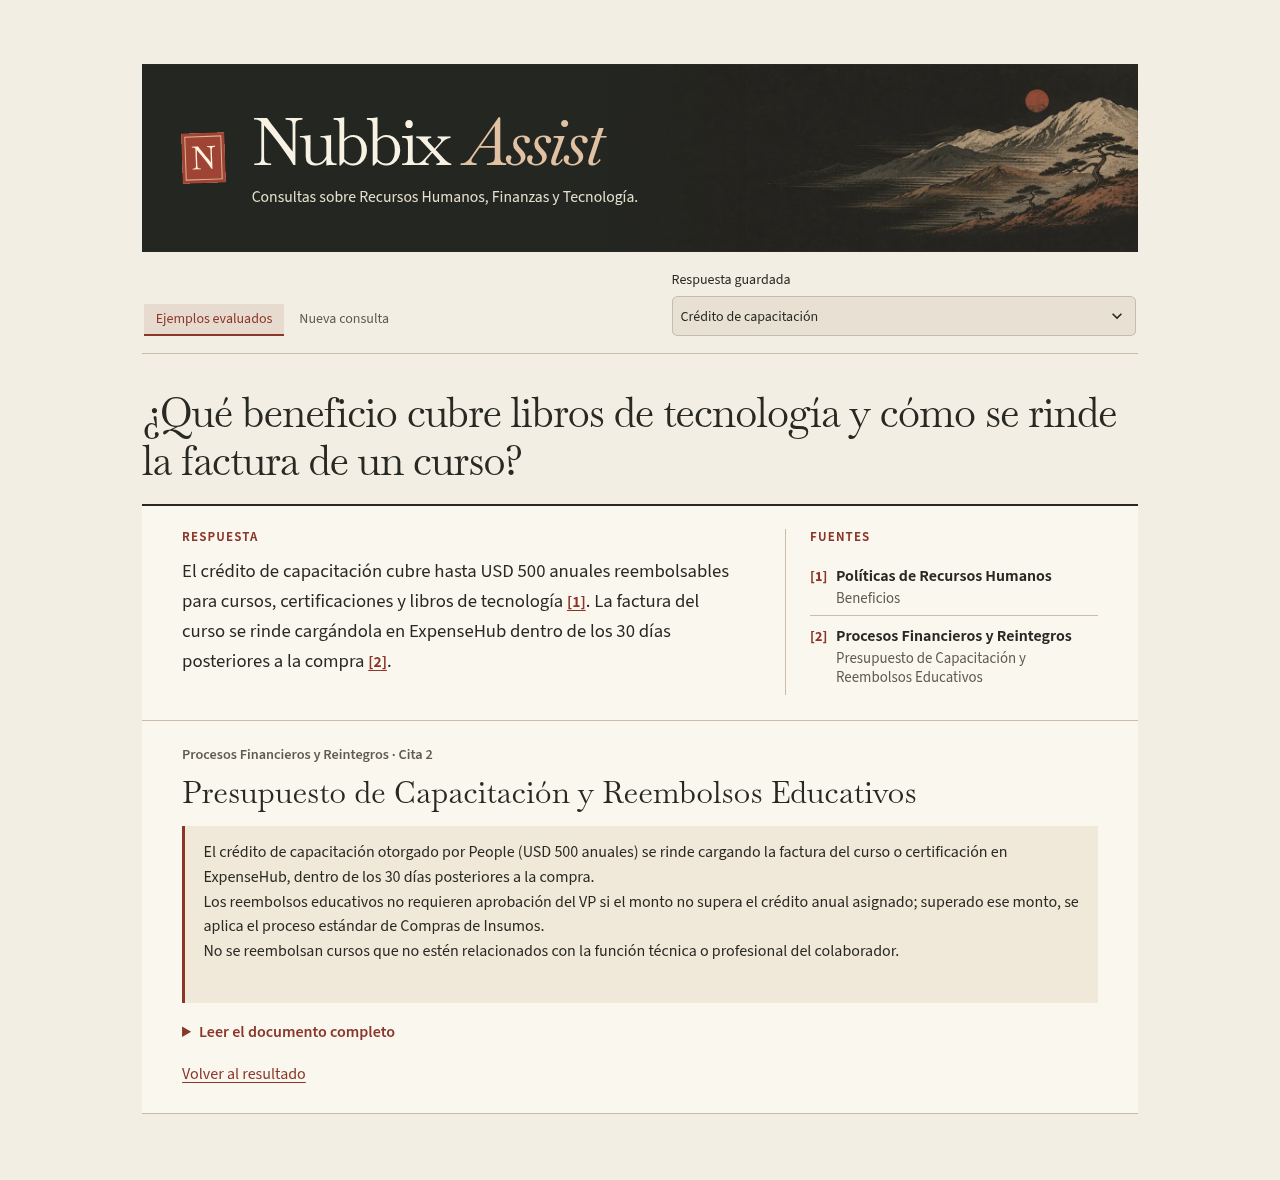
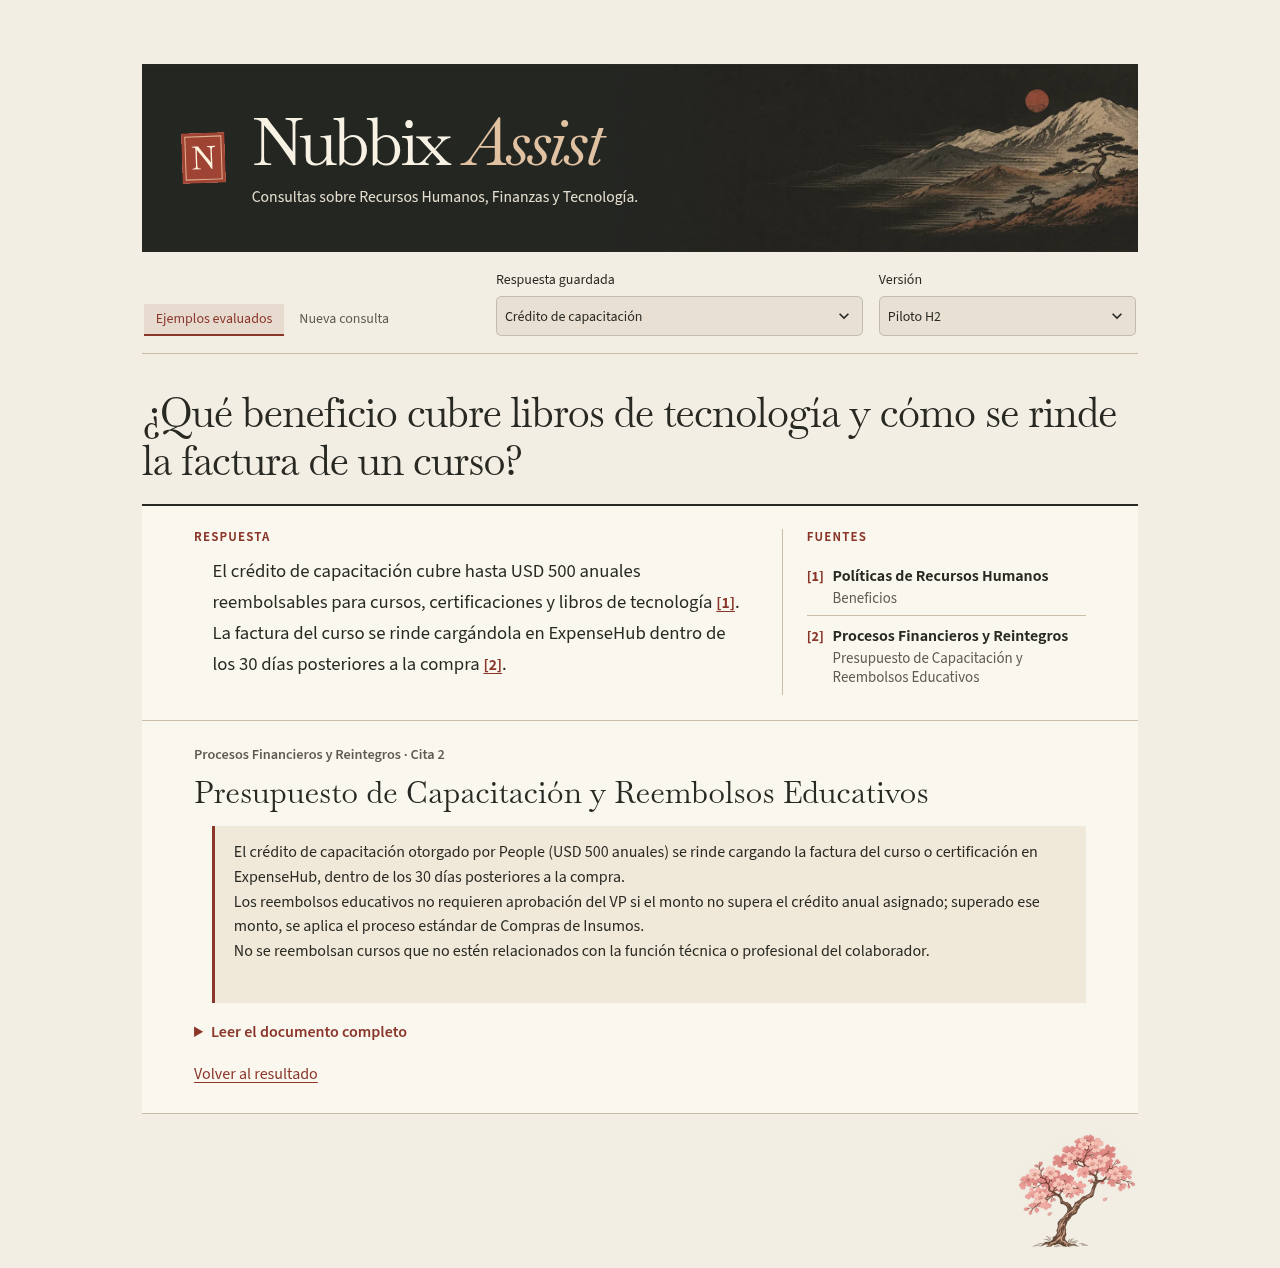
Ampliar la galería a todas las respuestas evaluadas y ajustar la lectura

diff --git a/ui/reader.css b/ui/reader.css
@@ -26,8 +26,11 @@
   --archive-radius: 2px;
 }
 [data-testid="stMainBlockContainer"] {
+  --cherry-size: clamp(5.2rem, 10vw, 7.6rem);
   max-width: 68rem;
-  padding: clamp(2.5rem, 5vw, 4rem) clamp(1.1rem, 3.6vw, 3rem) 5rem;
+  padding: clamp(2.5rem, 5vw, 4rem) clamp(1.1rem, 3.6vw, 3rem) calc(var(--cherry-size) + 2rem);
+  background: url("./app/static/cerezo.webp") right clamp(1.1rem, 3.6vw, 3rem) bottom 1rem /
+              var(--cherry-size) var(--cherry-size) no-repeat;
 }
 .archive-cover {
   position: relative;
@@ -126,6 +129,8 @@
   outline-offset: 3px;
 }
 .nubbix-reader {
+  --reader-gutter: clamp(1.25rem, 4.5vw, 3.25rem);
+  --reader-indent: clamp(.7rem, 1.6vw, 1.15rem);
   border-block: 2px solid var(--archive-ink);
   border-bottom: 1px solid var(--archive-rule);
   background: var(--archive-page);
@@ -136,7 +141,7 @@
   display: grid;
   grid-template-columns: minmax(0, 1.8fr) minmax(0, 1fr);
   gap: var(--archive-margin);
-  padding: 1.45rem var(--archive-margin) 1.6rem;
+  padding: 1.45rem var(--reader-gutter) 1.6rem;
 }
 .reader-copy:only-child { grid-column: 1 / -1; }
 .nubbix-reader .reader-label {
@@ -153,8 +158,9 @@
 .nubbix-reader .answer {
   max-width: 64ch;
   margin: 0;
+  margin-inline-start: var(--reader-indent);
   font-size: 1.17rem;
-  line-height: 1.6;
+  line-height: 1.65;
   white-space: pre-line;
   overflow-wrap: anywhere;
 }
@@ -180,7 +186,7 @@
 .source-link:hover .source-document, .source-link:focus-visible .source-document { text-decoration: underline; }
 .nubbix-reader .source-view {
   display: none;
-  padding: 1.4rem var(--archive-margin) 1.65rem;
+  padding: 1.4rem var(--reader-gutter) 1.65rem;
   scroll-margin-top: 4rem;
   border-top: 1px solid var(--archive-rule);
 }
@@ -199,6 +205,7 @@
 .nubbix-reader blockquote {
   padding: .9rem 1.15rem;
   margin: .4rem 0 1rem;
+  margin-inline-start: var(--reader-indent);
   border-left: 3px solid var(--archive-seal);
   background: #f0e8d8;
   color: var(--archive-ink);
@@ -209,7 +216,7 @@
 .nubbix-reader details { margin: 1rem 0; }
 .nubbix-reader summary { cursor: pointer; font-weight: 600; color: var(--archive-seal); }
 .nubbix-reader details .source-meta { margin: .7rem 0; overflow-wrap: anywhere; }
-.nubbix-reader pre { white-space: pre-wrap; overflow-wrap: anywhere; font: inherit; line-height: 1.55; }
+.nubbix-reader pre { margin-inline-start: var(--reader-indent); white-space: pre-wrap; overflow-wrap: anywhere; font: inherit; line-height: 1.55; }
 .nubbix-reader mark { color: #32251c; background: #ebd39f; }
 
 @media (max-width: 700px) {

diff --git a/ui/app.py b/ui/app.py
@@ -1,6 +1,4 @@
 """Ejecutar con python -m streamlit run ui/app.py desde la raíz."""
-import csv
-import json
 from pathlib import Path
 import sys
 
@@ -8,29 +6,30 @@ import streamlit as st
 
 ROOT = Path(__file__).resolve().parents[1]
 sys.path.insert(0, str(ROOT / "src"))
-from nubbix_assist.bootstrap import inspect_heading_document, make_retriever, language_model
+from nubbix_assist.bootstrap import make_retriever, language_model
 from nubbix_assist.generation.prompts import load_prompt
 from nubbix_assist.llm.service import CallBudget
 from nubbix_assist.query.service import answer_retrieval
+from nubbix_assist.ui.examples import load_examples
 from nubbix_assist.ui.reader import render_result
+
+VERSION_NAMES = {"headings_v1": "Secciones H2", "words_v1": "Ventanas de 80 palabras", "pilot": "Piloto H2"}
+TOPICS = {
+    "q01": "Licencia por matrimonio", "q02": "Días de examen", "q03": "Licencia por adopción",
+    "q04": "Solicitud de vacaciones", "q05": "Gastos de trabajo en casa", "q06": "Trabajo desde el exterior",
+    "q07": "Certificado por enfermedad", "q08": "Prepaga del grupo familiar", "q09": "Crédito de capacitación",
+    "q10": "Acceso a Producción", "q11": "Renovación de notebooks", "q12": "Aplicaciones para MFA",
+    "q13": "Contraseñas de Google Workspace", "q14": "Wi-Fi de un café", "q15": "Copias de la base de producción",
+    "q16": "Plazos de soporte", "q17": "Baja de accesos", "q18": "Equipo dañado durante un viaje",
+    "q19": "Viáticos para comidas", "q20": "Reintegros después del día 25", "q21": "Compra de licencias",
+    "q22": "Presupuestos de software", "q23": "Recibo de sueldo", "q24": "Cursos ajenos a la función",
+    "q25": "Bono por desempeño", "q26": "Diferencias en una factura", "q27": "Cupos de guardería",
+}
 
 
 @st.cache_data
 def examples():
-    folder = ROOT / "evals/resultados"
-    training = json.loads((folder / "2026-11-22-ejemplo-q09.json").read_text())
-    with (folder / "2026-11-22-generacion-golden-revisado.csv").open(encoding="utf-8") as handle:
-        refusal = next(row for row in csv.DictReader(handle)
-                       if row["pregunta_id"] == "q27" and row["estrategia"] == "headings_v1")
-    catalog = {}
-    for citation in training["chunks_related"]:
-        for chunk in inspect_heading_document(Path(citation["source"]), project_root=ROOT):
-            catalog[chunk.chunk_id] = chunk
-    return {
-        "Crédito de capacitación": (training["user_question"], training["system_answer"],
-                                   [catalog[c["chunk_id"]] for c in training["chunks_related"]]),
-        "Cupos de guardería": (refusal["pregunta"], refusal["respuesta"], []),
-    }
+    return load_examples(ROOT)
 
 
 def live_result():
@@ -91,15 +90,22 @@ st.html("""
 """)
 try:
     with st.container(key="archive_controls"):
-        modes, selection = st.columns([1.1, 1], vertical_alignment="bottom")
+        modes, selection, version_picker = st.columns([1.1, 1.2, .85], vertical_alignment="bottom")
         mode = modes.segmented_control("Modo", ["Ejemplos evaluados", "Nueva consulta"],
                                       default="Ejemplos evaluados", required=True, label_visibility="collapsed")
         if mode == "Ejemplos evaluados":
             saved = examples()
-            example = selection.selectbox("Respuesta guardada", list(saved))
+            ids = list(saved)
+            qid = selection.selectbox("Respuesta guardada", ids, index=ids.index("q09"),
+                                      format_func=lambda key: TOPICS.get(key, saved[key].question))
+            question = saved[qid]
+            versions = list(question.versions)
+            version = version_picker.selectbox("Versión", versions,
+                                               index=versions.index("pilot") if "pilot" in versions else 0,
+                                               format_func=VERSION_NAMES.__getitem__)
     if mode == "Ejemplos evaluados":
-        question, text, chunks = saved[example]
-        st.subheader(question)
+        text, chunks = question.versions[version]
+        st.subheader(question.question)
         st.html(render_result(ROOT, text, chunks))
     else:
         live_result()

diff --git a/src/nubbix_assist/ui/examples.py b/src/nubbix_assist/ui/examples.py
@@ -1,0 +1,50 @@
+"""Respuestas versionadas de la evaluación y sus pasajes en el corpus original."""
+import csv
+from dataclasses import dataclass, field
+import json
+from pathlib import Path
+import re
+
+from nubbix_assist.bootstrap import STRATEGIES
+from nubbix_assist.chunking.contracts import Chunk
+from nubbix_assist.generation.validators import validate_answer
+from nubbix_assist.ingestion.service import inspect_document
+
+
+@dataclass
+class SavedQuestion:
+    question: str
+    versions: dict[str, tuple[str, list[Chunk]]] = field(default_factory=dict)
+
+
+def load_examples(root: Path) -> dict[str, SavedQuestion]:
+    folder = root / "evals/resultados"
+    with (folder / "2026-11-22-generacion-golden-revisado.csv").open(encoding="utf-8", newline="") as handle:
+        rows = list(csv.DictReader(handle))
+    catalogs = {}
+    for strategy in {row["estrategia"] for row in rows}:
+        catalogs[strategy] = {
+            chunk.chunk_id: chunk
+            for source in sorted((root / "data/corpus").glob("*.md"))
+            for chunk in inspect_document(source.relative_to(root), project_root=root, strategy=STRATEGIES[strategy])
+        }
+
+    saved = {}
+    for row in rows:
+        qid, strategy, text = row["pregunta_id"], row["estrategia"], row["respuesta"]
+        item = saved.setdefault(qid, SavedQuestion(row["pregunta"]))
+        if item.question != row["pregunta"] or strategy in item.versions:
+            raise ValueError(f"Ejemplo guardado ambiguo para {qid}.")
+        ids = list(dict.fromkeys(re.findall(r"\[([0-9a-f]{64})\]", text)))
+        catalog = catalogs[strategy]
+        validate_answer({"system_answer": text, "cited_chunk_ids": ids}, catalog.keys())
+        item.versions[strategy] = text, [catalog[key] for key in ids]
+
+    pilot = json.loads((folder / "2026-11-22-ejemplo-q09.json").read_text(encoding="utf-8"))
+    if pilot["user_question"] != saved["q09"].question:
+        raise ValueError("La pregunta del piloto difiere de la pregunta de capacitación.")
+    catalog = catalogs["headings_v1"]
+    ids = [c["chunk_id"] for c in pilot["chunks_related"]]
+    validate_answer({"system_answer": pilot["system_answer"], "cited_chunk_ids": ids}, catalog.keys())
+    saved["q09"].versions["pilot"] = pilot["system_answer"], [catalog[key] for key in ids]
+    return saved

diff --git a/tests/test_extra_credits.py b/tests/test_extra_credits.py
@@ -1,3 +1,5 @@
+import csv
+import json
 from pathlib import Path
 from types import SimpleNamespace
 from unittest import TestCase
@@ -7,6 +9,7 @@ from nubbix_assist.bootstrap import inspect_heading_document
 from nubbix_assist.lexical.index import BM25Index
 from nubbix_assist.retrieval.rewrite import QueryRewriter
 from nubbix_assist.retrieval.service import Retriever
+from nubbix_assist.ui.examples import load_examples
 from nubbix_assist.ui.reader import render_result
 
 
@@ -57,3 +60,24 @@ class ExtraCreditsTests(TestCase):
         self.assertIn(f'href="#pasaje-{chunk.chunk_id}"', content)
         self.assertIn(f'id="pasaje-{chunk.chunk_id}"', content)
         self.assertNotIn("source-link", render_result(self.root, "Evidencia insuficiente", []))
+
+    def test_all_saved_versions_render_the_recorded_answer_and_sources(self):
+        folder = self.root / "evals/resultados"
+        saved = load_examples(self.root)
+        with (folder / "2026-11-22-generacion-golden-revisado.csv").open(encoding="utf-8") as handle:
+            rows = list(csv.DictReader(handle))
+        self.assertEqual(len(saved), len({row["pregunta_id"] for row in rows}))
+        self.assertEqual(sum(len(item.versions) for item in saved.values()), len(rows) + 1)
+        for row in rows:
+            item = saved[row["pregunta_id"]]
+            text, chunks = item.versions[row["estrategia"]]
+            self.assertEqual((item.question, text), (row["pregunta"], row["respuesta"]))
+            self.assertEqual({c.source for c in chunks}, set(filter(None, row["fuentes_citadas"].split(" | "))))
+            html = render_result(self.root, text, chunks)
+            self.assertEqual(html.count('class="source-view"'), len(chunks))
+            for chunk in chunks:
+                self.assertIn(f'href="#pasaje-{chunk.chunk_id}"', html)
+        pilot = json.loads((folder / "2026-11-22-ejemplo-q09.json").read_text())
+        text, chunks = saved["q09"].versions["pilot"]
+        self.assertEqual(text, pilot["system_answer"])
+        self.assertEqual([c.chunk_id for c in chunks], [c["chunk_id"] for c in pilot["chunks_related"]])

diff --git a/docs/referencias/extra-credits.md b/docs/referencias/extra-credits.md
@@ -48,7 +48,7 @@ python -m pip install -r requirements-ui.txt
 python -m streamlit run ui/app.py --server.address 127.0.0.1
 ```
 
-Abrí la dirección local que imprime Streamlit. En **Ejemplos evaluados** se pueden consultar las respuestas reales de capacitación y guardería sin índices ni claves. Al pulsar una cita numerada se abre el pasaje y su sección. **Leer el documento completo** resalta ese intervalo en el Markdown original. El lector verifica el hash del archivo y sus offsets. La respuesta de guardería aparece con citas vacías.
+Abrí la dirección local que imprime Streamlit. **Ejemplos evaluados** reúne las 27 preguntas del golden. En **Respuesta guardada** podés buscar un tema y en **Versión** elegir la respuesta con secciones H2 o con ventanas de 80 palabras. Capacitación también incluye el piloto original. Las 55 respuestas se leen sin índices ni claves. Al pulsar una cita numerada se abre el pasaje y su sección. **Leer el documento completo** resalta ese intervalo en el Markdown original. El lector verifica el hash del archivo y sus offsets. La respuesta de guardería aparece con citas vacías.
 
 En **Nueva consulta**, **Buscar pasajes** usa el índice local. **Generar respuesta** llama al generador configurado en el `.env` del servidor con un máximo de dos intentos. En **Opciones de búsqueda** se eligen el índice y los extras. Se verificaron los enlaces de RR. HH. y Finanzas, el rechazo y la navegación en Chromium con vistas de escritorio y móvil. El envío a generación se probó con el índice real y un transporte de prueba que devolvió la respuesta guardada del piloto. [Captura de la cita de Finanzas](citas-navegables.png)
 

diff --git a/docs/USO_IA.md b/docs/USO_IA.md
@@ -120,4 +120,4 @@ Luis configuró las credenciales locales y aprobó el piloto de capacitación y,
 
 Luis pidió implementar los tres extra credits. Codex integró el cross-encoder local y la reformulación por vocabulario, redactó 27 versiones informales de las preguntas y comparó los rankings contra los del buscador base. Para verificar las citas navegables usó las respuestas guardadas del proyecto y los documentos originales. Estas pruebas usaron cero llamadas a OpenAI y Gemini. [Resultados y captura](referencias/extra-credits.md)
 
-Luis pidió aplicar su estilo Mochi al lector. Codex eligió la dirección de biblioteca japonesa y generó con IA el paisaje de la cabecera. El paisaje y la tipografía Baskervville se sirven desde el repositorio. [Captura del lector](referencias/citas-navegables.png) · [Licencia de la tipografía](../ui/static/fonts/Baskervville-OFL.txt)
+Luis pidió aplicar su estilo Mochi al lector y sumar un pequeño cerezo. Codex generó con IA el paisaje de la cabecera y el cerezo en flor que aparece al pie de la página. Ambas ilustraciones y la tipografía Baskervville se sirven desde el repositorio. [Captura del lector](referencias/citas-navegables.png) · [Licencia de la tipografía](../ui/static/fonts/Baskervville-OFL.txt)
